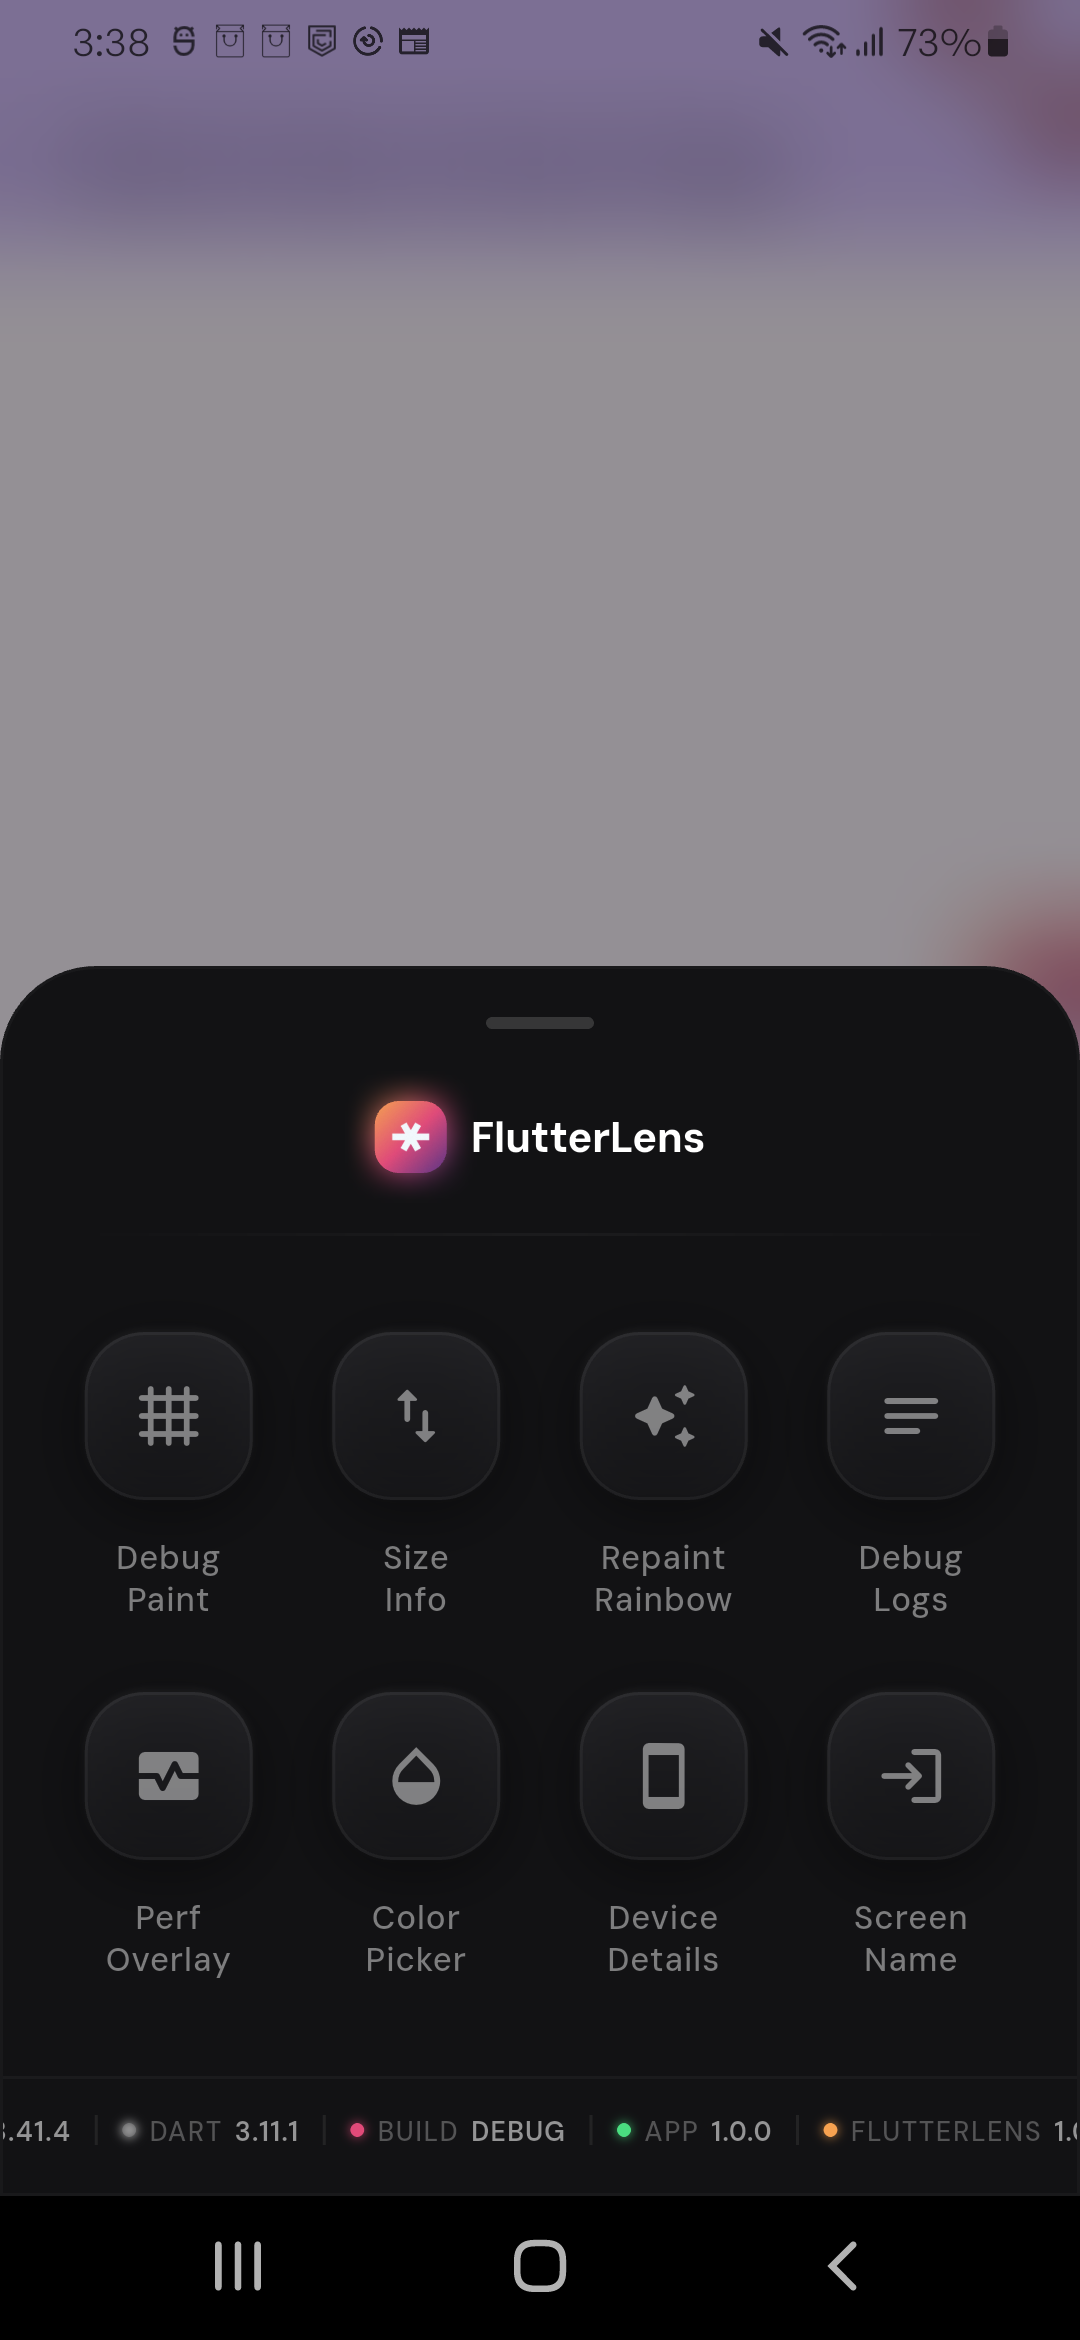
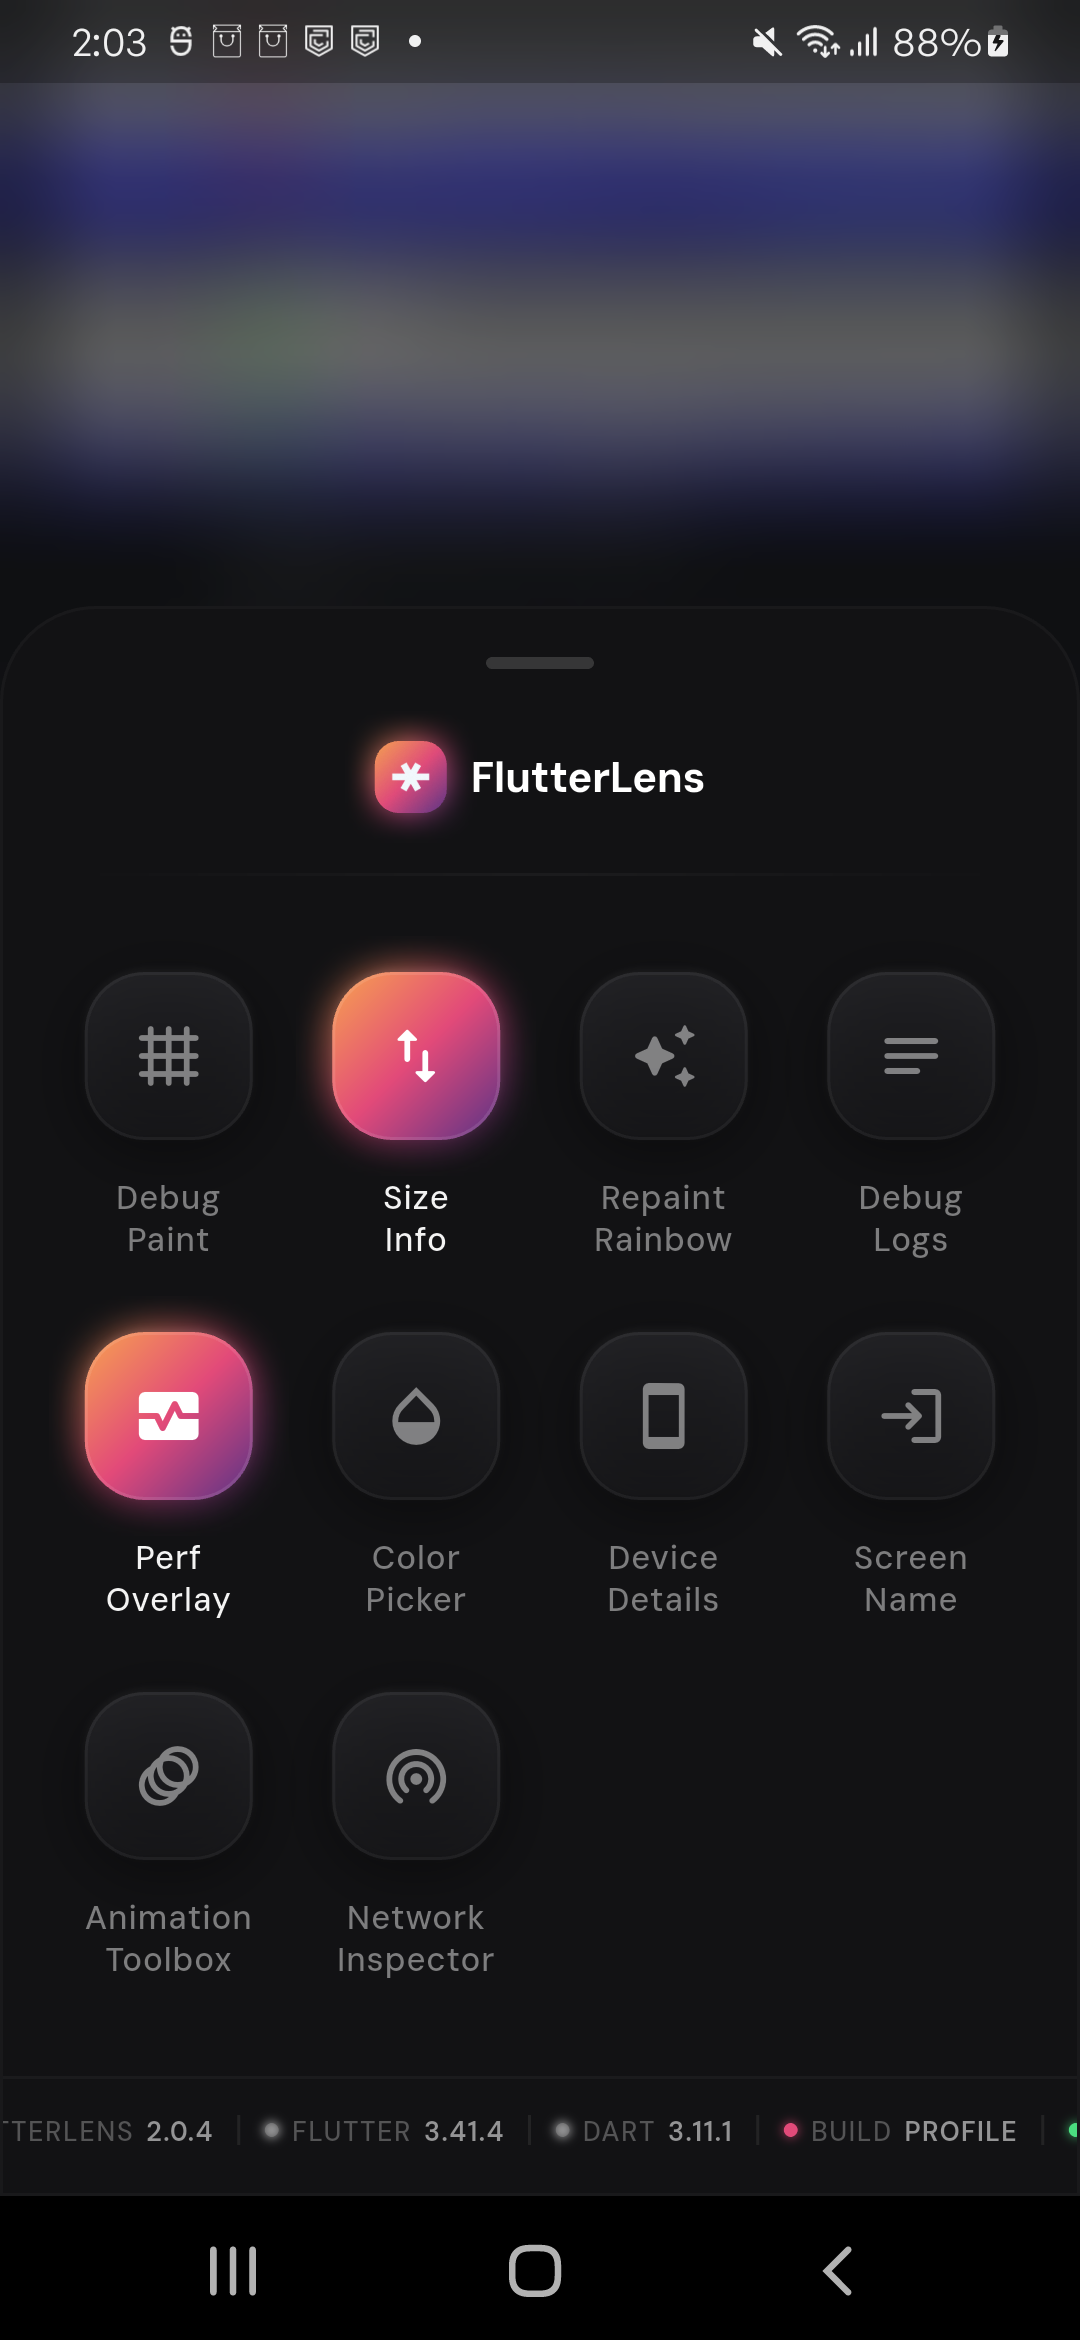
update readme

diff --git a/README.md b/README.md
@@ -33,6 +33,10 @@
 | 🧲 **Edge tray launcher** docked to the right side; draggable and always accessible.                         | 📋 **Bottom sheet tools grid** with active/inactive visual states and quick toggles.                         | 🎨 **Color result card** showing selected color in HEX, RGB, and HSL with copy action.                       |
 | <img src="https://raw.githubusercontent.com/LiquidatorCoder/flutter_debug_tools/main/screenshots/flow/2.png" alt="Flow 2" width="360" height="780" /> | <img src="https://raw.githubusercontent.com/LiquidatorCoder/flutter_debug_tools/main/screenshots/flow/4.png" alt="Flow 4" width="360" height="780" /> | <img src="https://raw.githubusercontent.com/LiquidatorCoder/flutter_debug_tools/main/screenshots/flow/6.png" alt="Flow 6" width="360" height="780" /> |
 | 🧾 **Version ticker** displaying app, FlutterLens, Flutter, Dart, and build mode details.                    | 📱 **In-app debug logs** to inspect console logs inside the running app.                                     | ⚡ **Device details** to quickly check and share device details.                                             |
+| <img src="https://raw.githubusercontent.com/LiquidatorCoder/flutter_debug_tools/main/screenshots/flow/7.png" alt="Flow 7" width="360" height="780" /> | <img src="https://raw.githubusercontent.com/LiquidatorCoder/flutter_debug_tools/main/screenshots/flow/8.png" alt="Flow 8" width="360" height="780" /> | <img src="https://raw.githubusercontent.com/LiquidatorCoder/flutter_debug_tools/main/screenshots/flow/9.png" alt="Flow 9" width="360" height="780" /> |
+| 🎛 **Animation toolbox** with global speed, pause/disable toggles, frame timing HUD, and animated-region highlighting controls. | 📈 **Frame timing HUD in context** showing live FPS, average frame time, and max frame time over the app surface. | 🌐 **Network inspector list view** with status filters, HTTP methods, durations, and retry markers for requests. |
+| <img src="https://raw.githubusercontent.com/LiquidatorCoder/flutter_debug_tools/main/screenshots/flow/10.png" alt="Flow 10" width="360" height="780" /> | &nbsp; | &nbsp; |
+| 🔎 **Network request details sheet** with URL, method, status, duration, and request/response headers for deep inspection. | &nbsp; | &nbsp; |
 
 ---
 
